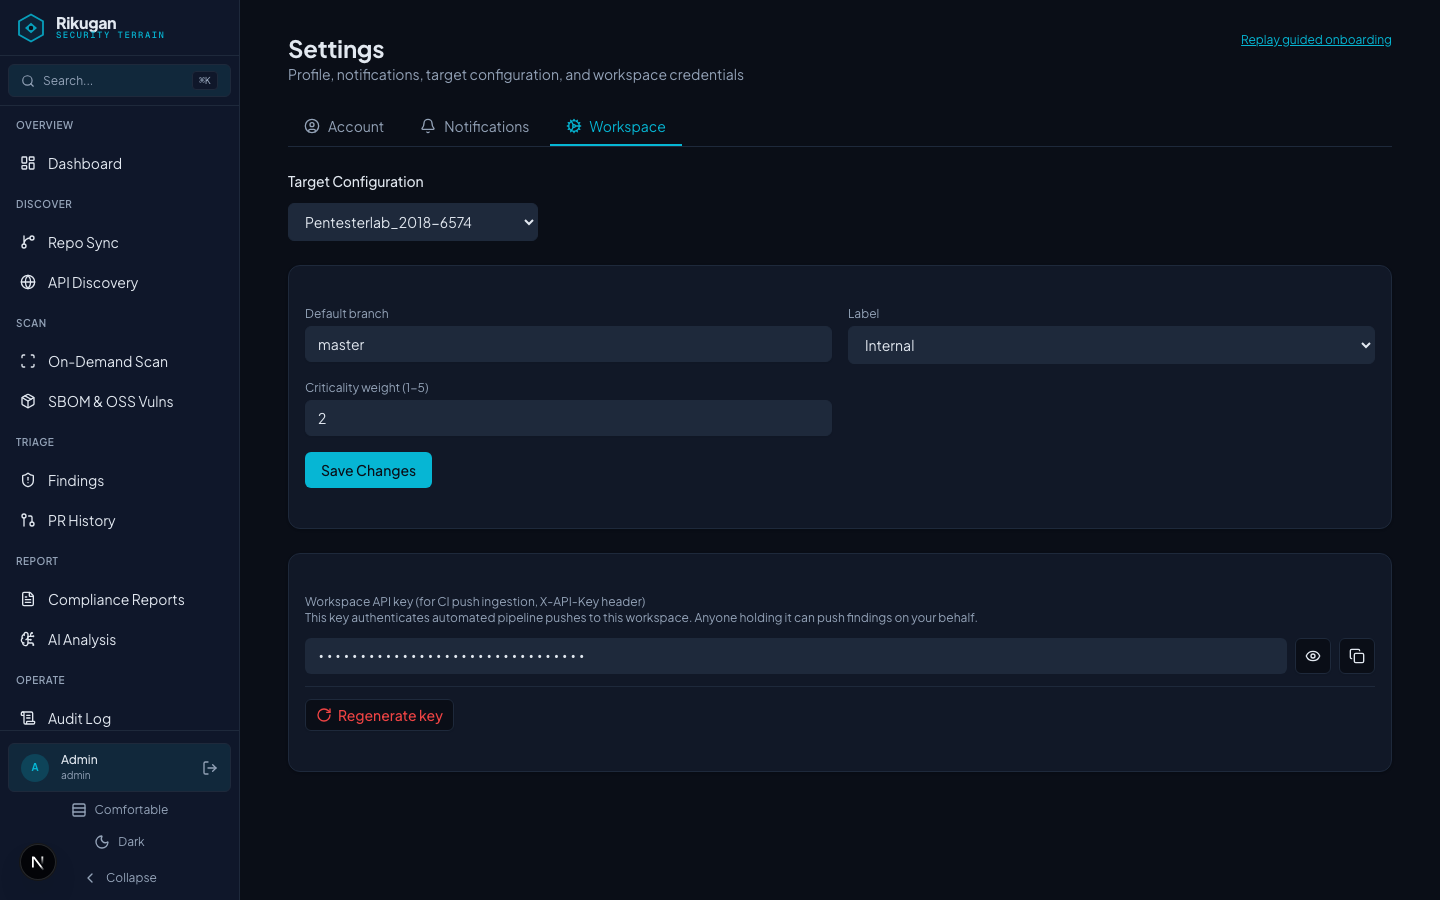
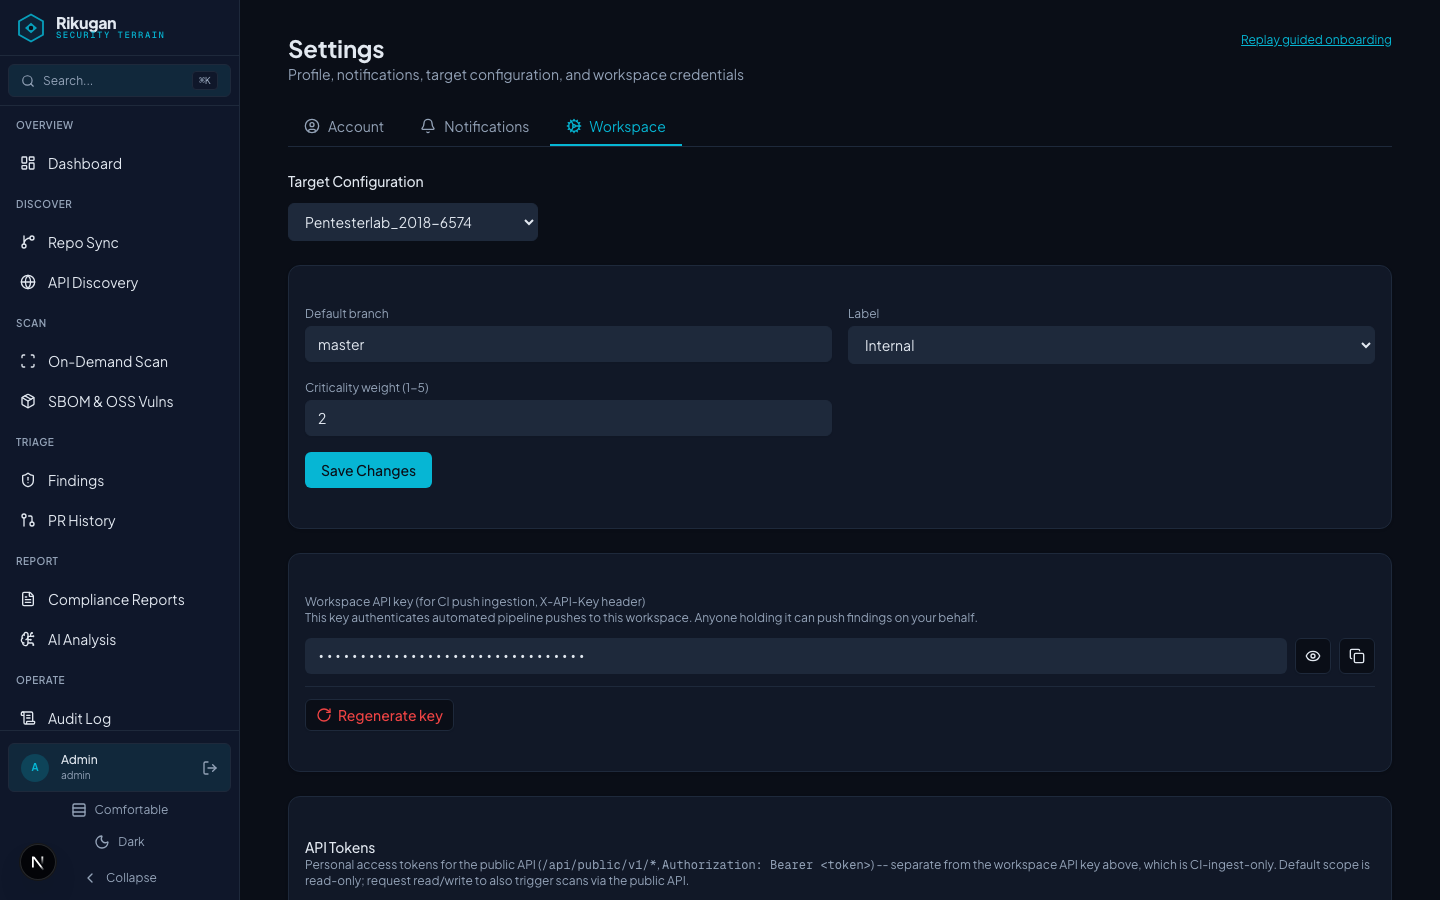
Document the public API + personal access tokens (#109)
Replaces the "coming soon" placeholder now that #109 shipped: auth
(Bearer token), scope model (read/read_write), full v1 endpoint list,
and a real screenshot of the API Tokens card.

Changed region(s): [[0.2188, 0.9333, 0.5938, 0.9956], [0.625, 0.9333, 0.9375, 0.9644]]

diff --git a/docs/reference/api.md b/docs/reference/api.md
@@ -4,10 +4,47 @@ sidebar_position: 1
 
 # Public API Reference
 
-:::info Coming soon
-Tracked by [issue #109](https://github.com/geekshiv/rikugan-platform/issues/109) — public API with dedicated API-token support. Not yet built.
-:::
+A versioned, token-authenticated API for scripts, CI, and third-party integrations — distinct from the internal API the frontend uses (session-cookie authenticated) and from the workspace API key (CI-ingest-only, `/api/ingest/{target_id}`).
 
-Until #109 ships, every endpoint documented in this site is authenticated the same way the frontend is (session cookie) or, for CI ingestion, the workspace API key described in [Workspaces & API Keys](../admin/workspaces-and-api-keys.md). A dedicated, publicly documented API-token surface with its own docs (auth, rate limits, versioning) will replace this placeholder once #109 lands.
+## Authentication
 
-In the meantime, the live OpenAPI UI at `/docs` on your own backend deployment reflects the current, real endpoint set.
+Create a personal access token at **Settings → Workspace → API Tokens**. The token is shown once at creation time — copy it immediately, it can't be retrieved again.
+
+![Settings: API Tokens card](/img/screenshots/settings-workspace.png)
+
+Send it as a Bearer token:
+
+```bash
+curl -H "Authorization: Bearer rikugan_pat_..." \
+  https://your-rikugan-instance/api/public/v1/targets
+```
+
+## Scope
+
+Every token is either:
+
+- **Read-only** (default) — can call every `GET` endpoint below
+- **Read/write** — can also call the write endpoint (trigger a scan)
+
+Request read/write explicitly when creating the token if you need it; the default is read-only.
+
+## Endpoints (`/api/public/v1`)
+
+| Method | Path | Scope | Description |
+|---|---|---|---|
+| GET | `/targets` | read | List targets in your accessible workspaces |
+| GET | `/targets/{id}` | read | Get a single target |
+| GET | `/findings` | read | List findings, filterable by `target_id`, `severity`, `state`; paginated (`page`, `page_size`) |
+| GET | `/findings/{id}` | read | Get a single finding |
+| GET | `/scans/{id}` | read | Get a scan's status |
+| POST | `/scans?target_id=&tool=` | read/write | Trigger a native scan (same async dispatch as the UI's On-Demand Scan) |
+
+All list endpoints are scoped to workspaces your token's owning user is a member of — the same `accessible_workspace_ids` scoping every internal endpoint uses. There's no cross-workspace visibility beyond what that user could already see in the UI.
+
+## Versioning
+
+`v1` in the path — a future breaking `v2` can exist alongside it rather than forcing every integration to update in lockstep.
+
+## Managing tokens
+
+List, name, and revoke tokens from the same **Settings → Workspace → API Tokens** card. Revoking is immediate — no grace period.

diff --git a/docs/admin/workspaces-and-api-keys.md b/docs/admin/workspaces-and-api-keys.md
@@ -28,3 +28,7 @@ Manage/rotate a target's key: `GET /api/targets/{id}/workspace-key`, `POST .../w
 ![Settings: masked workspace API key](/img/screenshots/settings-workspace.png)
 
 This key is separate from your session cookie and from the GitHub App's installation token — three distinct trust boundaries, each scoped to what it needs.
+
+## Personal access tokens (public API)
+
+Distinct again from the workspace API key above: a personal access token (created in the same **API Tokens** card, just below the workspace key) authenticates you specifically against the [Public API](../reference/api.md) — read-only by default, optionally read/write to also trigger scans. See the Public API Reference for the full endpoint list and scope model.
